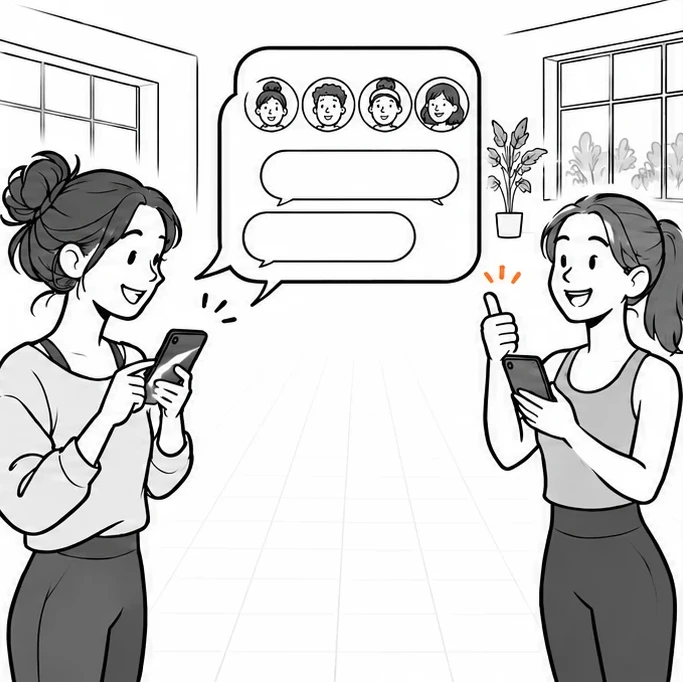
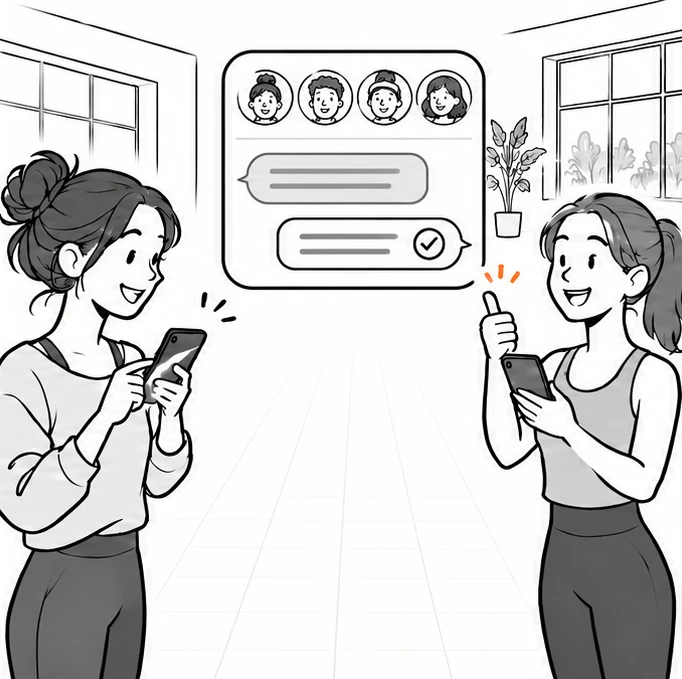
Replace Pilates insight 3 illustration
Claude-Session: https://claude.ai/code/session_01NDe3p8GQ2HZ5WF8ct1RAfY

diff --git a/english.js b/english.js
@@ -2,7 +2,7 @@
 window.PortfolioEN = (() => {
 
 const schedulingIllustration=(kind,en=false)=>{
- const pilImg={priority:1,exchange:2,mutual:3}[kind];if(pilImg){const alt=[["老師在平板上排課，先安排熟悉的固定學生", "老師深夜逐一傳訊息通知學生，學生隔天準時到教室", "老師把空出的課丟到群組，另一位老師接手"], ["The instructor schedules on a tablet, placing familiar regulars first", "She messages each student late at night; students arrive on time", "An open slot shared to the group is picked up by another instructor"]][en?1:0][pilImg-1];return '<img class="pil-illus" loading="lazy" src="./assets/pilates-insight-'+pilImg+'.webp?v=3" alt="'+alt+'">';}
+ const pilImg={priority:1,exchange:2,mutual:3}[kind];if(pilImg){const alt=[["老師在平板上排課，先安排熟悉的固定學生", "老師深夜逐一傳訊息通知學生，學生隔天準時到教室", "老師把空出的課丟到群組，另一位老師接手"], ["The instructor schedules on a tablet, placing familiar regulars first", "She messages each student late at night; students arrive on time", "An open slot shared to the group is picked up by another instructor"]][en?1:0][pilImg-1];return '<img class="pil-illus" loading="lazy" src="./assets/pilates-insight-'+pilImg+'.webp?v=4" alt="'+alt+'">';}
  const zh={
   priority:['先排','穩定、感情好的學生','再排','能上時間少的學生','最後','其他學生','每人至少 2 堂原老師','有人要上 5–8 堂'],
   exchange:['老師付出','整月排好每位學生','手打通知 30–60 人','學生回報','照著上課','取消變少'],

diff --git a/index.html b/index.html
@@ -35,10 +35,10 @@
     <div><strong>Yuan Chi Chang</strong><span>UX × Product Thinking × Building</span></div>
     <div class="footer-right"><span>Made with curiosity, 2026.</span><a href="#/">Back to top ↑</a></div>
   </footer>
-  <script src="./english.js?v=20261104edge"></script>
+  <script src="./english.js?v=20261104pil3"></script>
   <script src="./hero-image-data.js?v=20261029-hq"></script>
   <script src="./hero-back-data.js?v=20261029toast2"></script>
   <script>window.HERO_BACK_IMAGE = './yuan-chi-hero-flip-back.png?v=20261029-coral-fix';</script>
-  <script src="./script.js?v=20261104edge"></script>
+  <script src="./script.js?v=20261104pil3"></script>
 </body>
 </html>
